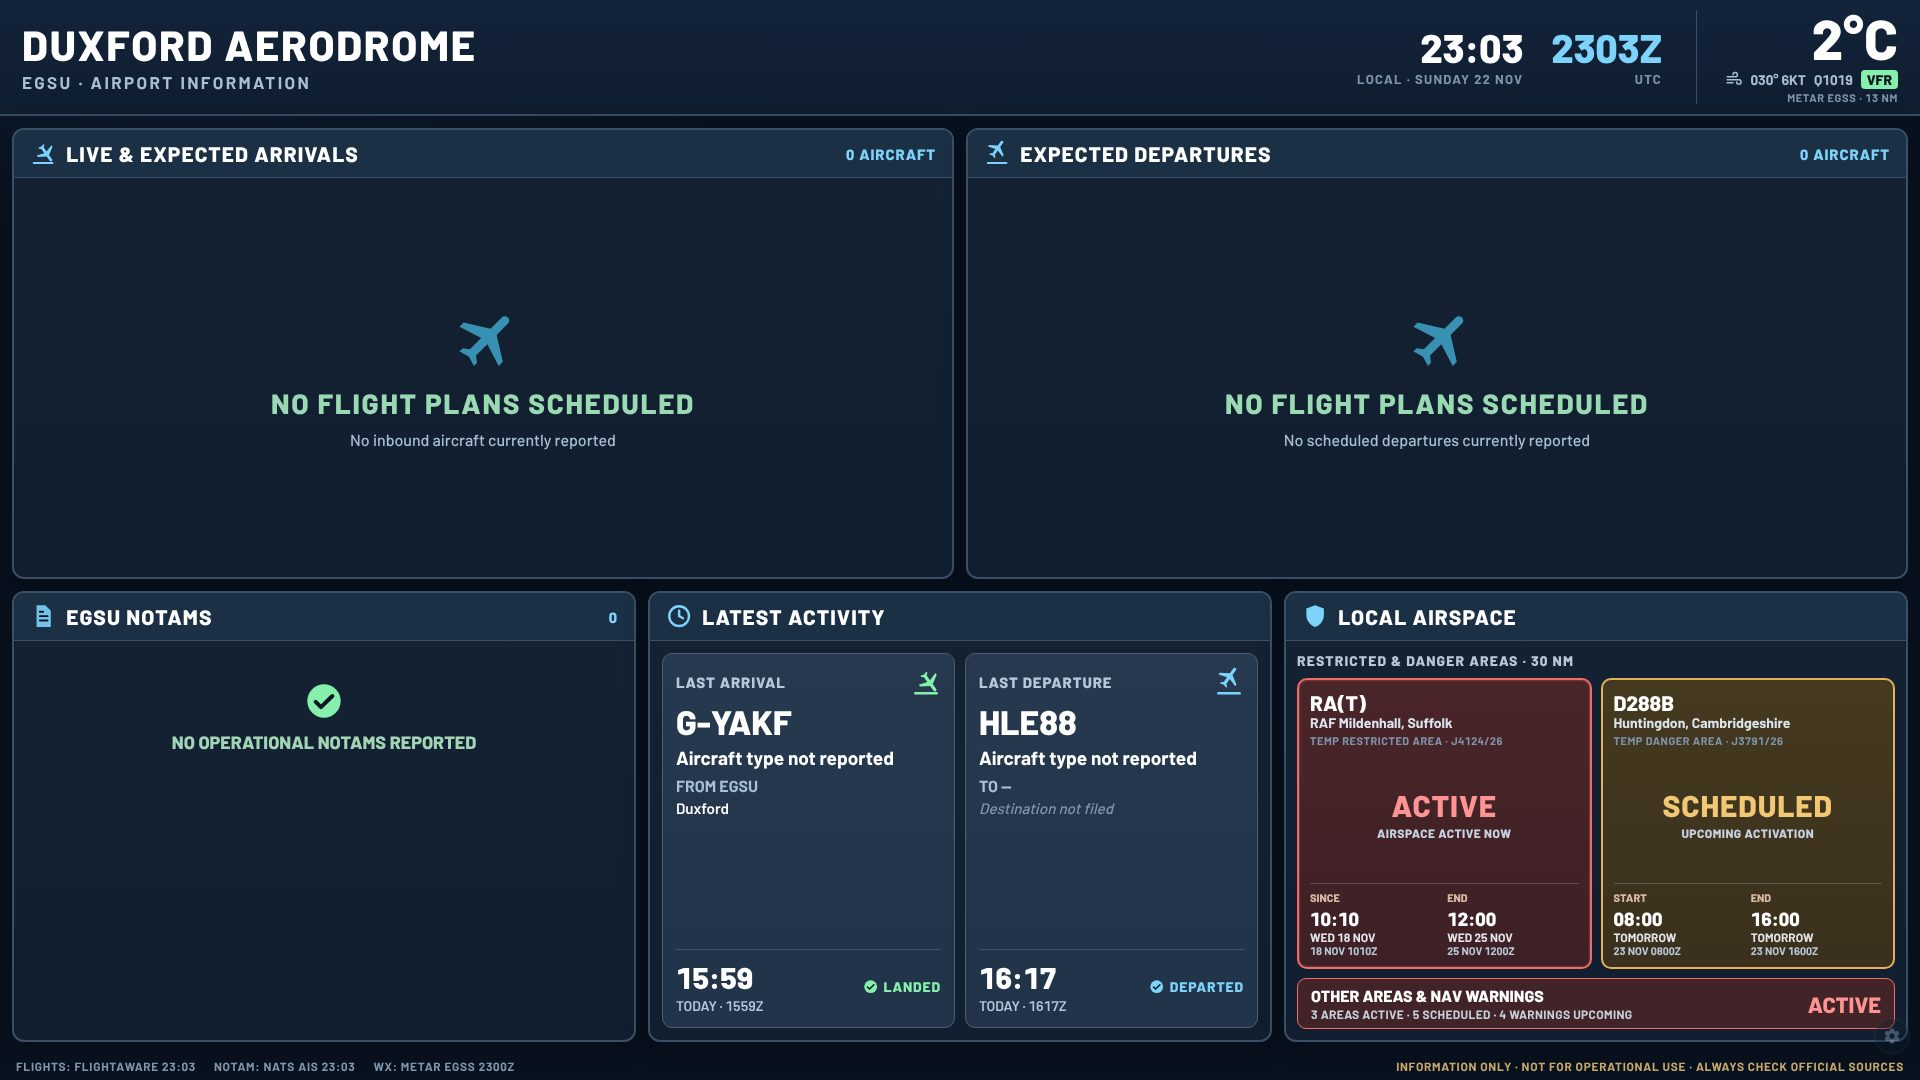
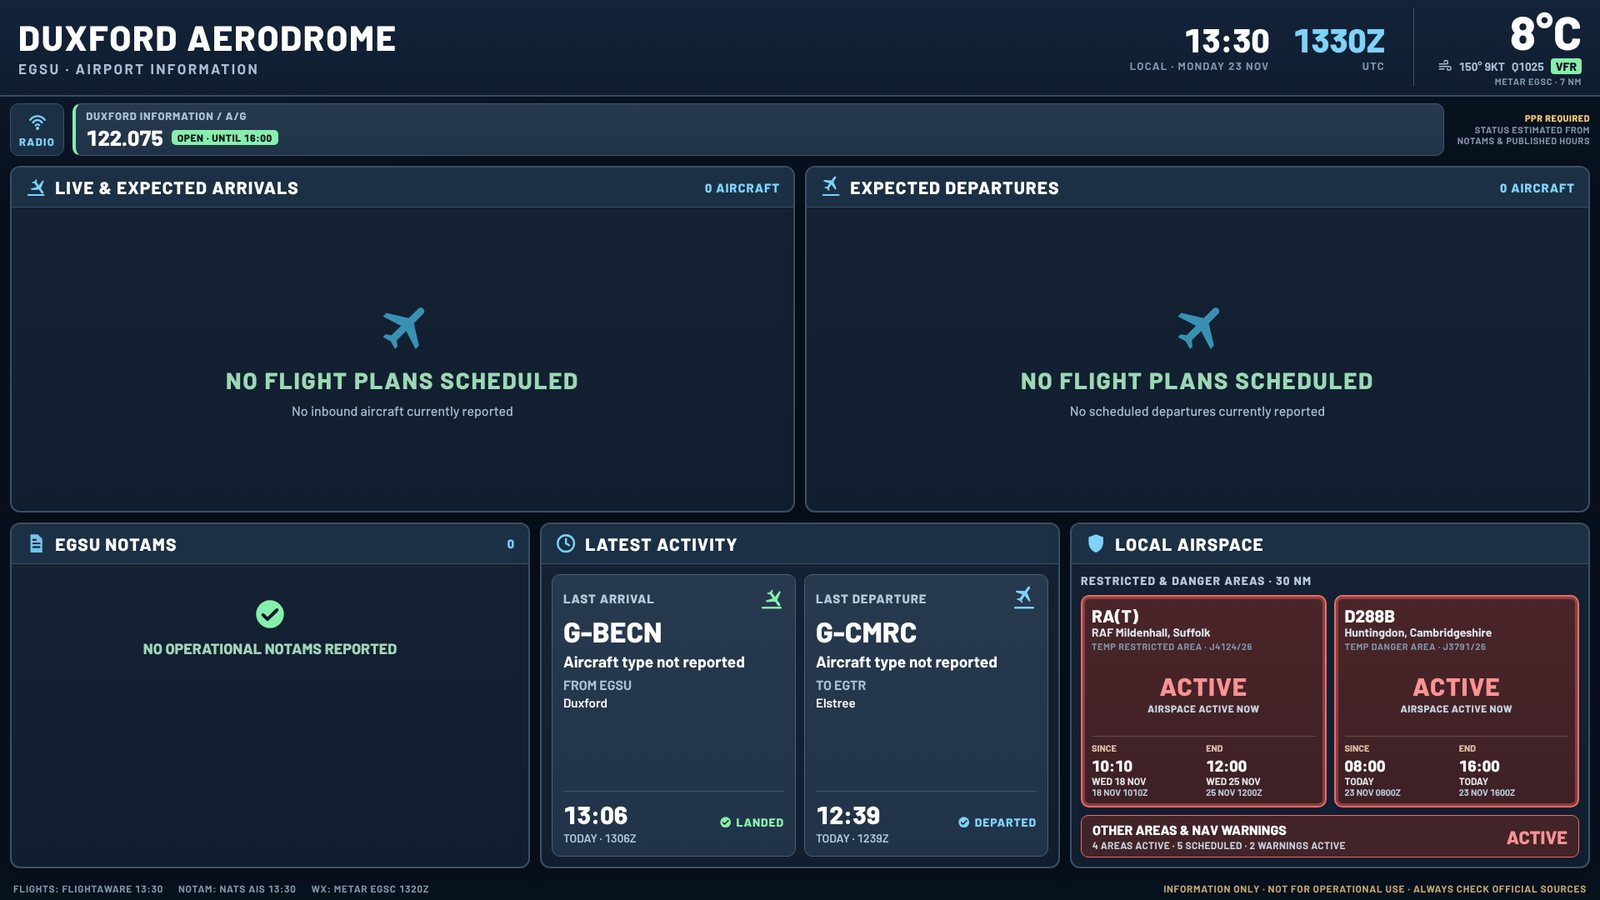
README: refresh screenshots and add a gallery
Screenshots regenerated from 0.2.6 with live data: Duxford board and weather,
Birmingham board/weather/phone, HA card, settings screen addresses. Obsolete
images removed. CLAUDE.md notes how to take README shots without the pinned
badge. Docs only.

Claude-Session: https://claude.ai/code/session_01ADHSYTM9zajqMFukASZSTJ

diff --git a/README.md b/README.md
@@ -3,13 +3,33 @@ Screens for local airport — live arrivals, departures, NOTAMs, latest activity
 restricted/danger airspace for **any UK airport** (choose by ICAO `EGBJ` or IATA `GLO`).
 Runs as a **website** and as a **Home Assistant** dashboard (same board in both).
 
-![TV display](docs/screenshots/tv_egbb.jpg)
-![Weather station](docs/screenshots/weather_egsu.jpg)
+![Information board: Birmingham](docs/screenshots/tv_egbb.jpg)
 
-Two screens: the **information board** (`/`) and the **weather station** (`/weather`: wind rose with the
-airfield's runways, QNH/QFE, RVR, crosswind components). `/?view=rotate` alternates them.
-A **radio strip** lists the airfield's frequencies with an open/closed estimate (from NOTAMs and optional
-opening hours) and the current ATIS letter where a real text ATIS exists. Default airport: **EGSU Duxford**.
+Two screens, plus a settings page. Default airport: **EGSU Duxford**.
+
+- **Information board** (`/`):
+  - live and expected arrivals/departures, with "arriving within 30/60 minutes" alerts;
+  - interpreted NOTAMs, latest activity, and local restricted/danger airspace with live activation status;
+  - a **radio strip**: the airfield's frequencies, an open/closed estimate from NOTAMs and opening hours, and
+    the current ATIS letter where a real text ATIS exists.
+- **Weather station** (`/weather`): wind rose with the airfield's real runways, QNH/QFE, RVR, crosswind
+  components, favoured runway. `/?view=rotate` alternates the two screens.
+
+## Screenshots
+| | |
+|---|---|
+| **Duxford: information board** (default airport, a quiet GA field)<br>![Board: Duxford](docs/screenshots/tv_egsu.jpg) | **Duxford: weather station**<br>![Weather: Duxford](docs/screenshots/weather_egsu.jpg) |
+| **Birmingham: weather station** (single runway 15/33)<br>![Weather: Birmingham](docs/screenshots/weather_egbb.jpg) | **Home Assistant dashboard card** (midnight theme)<br>![HA card](docs/screenshots/ha_card_midnight.jpg) |
+| **Heathrow: radio strip with a live text-ATIS letter**<br>![Heathrow radio strip](docs/screenshots/tv_egll_radio.jpg) | **Settings: copy-ready screen addresses** with the device's real IP<br>![Screen addresses](docs/screenshots/settings_screen_addresses.jpg) |
+
+<p>
+  <img src="docs/screenshots/phone_egbb.jpg" alt="Phone: information board" width="270">
+  <img src="docs/screenshots/weather_phone_egsu.jpg" alt="Phone: weather station" width="270">
+  <br><em>On a phone the same pages become a scrolling layout.</em>
+</p>
+
+Screenshots were taken on 23 Nov 2026 with live data, so the content varies with the time of day.
+The full settings page is [here](docs/screenshots/settings.jpg).
 
 ## Quick start
 ```bash

diff --git a/CLAUDE.md b/CLAUDE.md
@@ -59,7 +59,8 @@ Dockerfile                 ONE image for plain Docker and the add-on: ghcr.io/ho
                            PORTS: container always listens on 8080; HA add-on maps it to HOST 8765 by default (8080
                            clashed on the owner's HA, v0.2.2); plain Docker/compose keeps 8080:8080. Ingress uses 8080 internally.
 docker-compose.yml         plain Docker deployment (settings persist in ./data)
-docs/screenshots/          rendered screenshots of the prototype (TV, phone, HA card, settings)
+docs/screenshots/          README screenshots (regenerated 2026-11-23 from v0.2.6; for README shots switch airport via
+                           POST /api/settings, NOT ?airport= — that shows the orange 'SCREEN PINNED' badge)
 tools/build_airports.py    regenerate the UK airport DB
 ```
 
@@ -208,6 +209,10 @@ layout with "ARRIVING WITHIN 30/60 MINUTES" banners.
   60 s, renewed on 401), else fallback next-to-module. Tested end-to-end with a simulated HA origin (static /local + cookie-
   checked ingress proxy) + mock Supervisor; old server: route re-tested. Settings page shows the /local resource as
   RECOMMENDED. Guide Option 3 rewritten. Add-on 0.2.6. 19 tests.
+
+- **2026-11-23** — README screenshots refreshed from 0.2.6 with live data (EGSU board + weather, EGBB board + weather +
+  phone, HA card, EGLL radio strip, settings + screen addresses); README rewritten with a screenshot gallery. Removed
+  obsolete tv_egbj / ha_card_eglc_midnight images. Docs-only (no add-on version bump).
 
 ## Next steps (suggested)
 1. Owner to confirm display resolution (assumed 1920×1080). NOTAM provider confirmed: NATS PIB.
